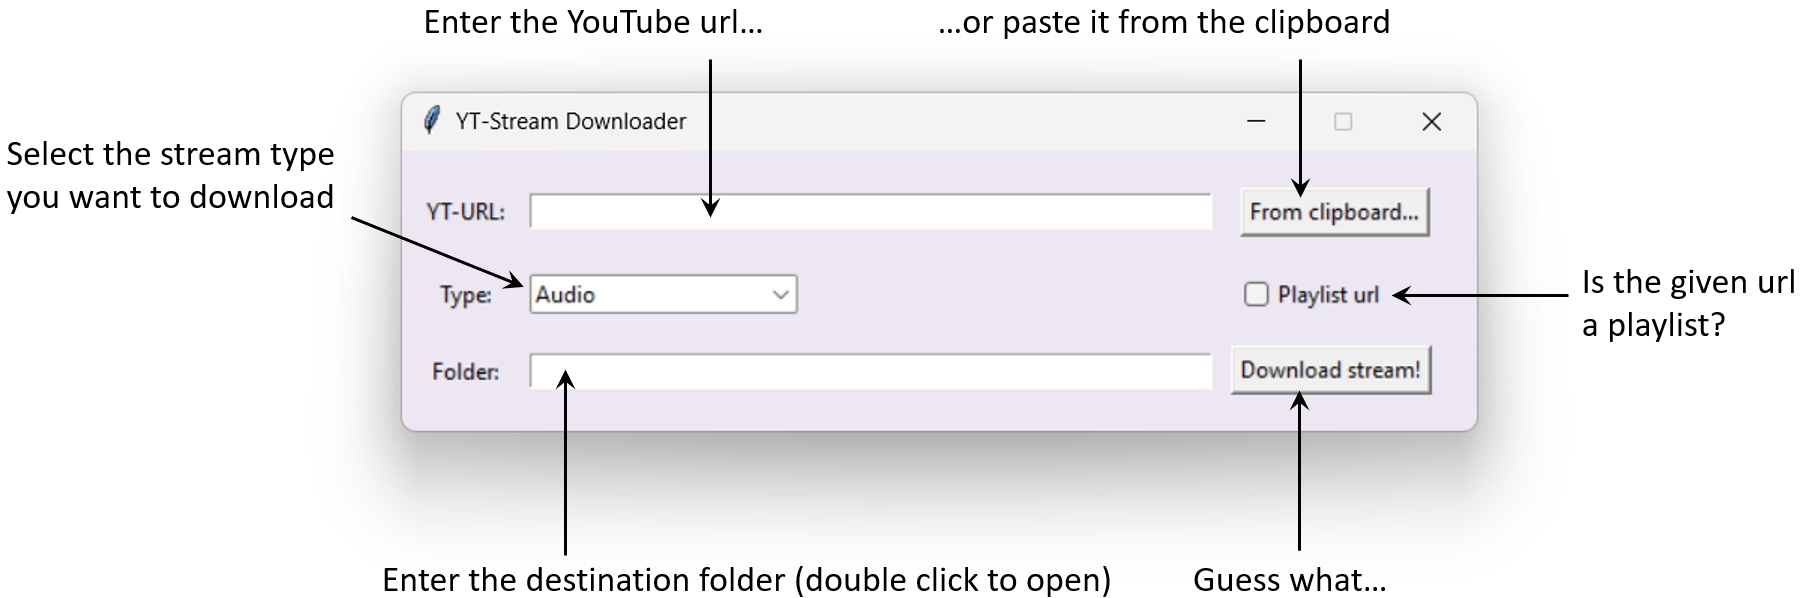
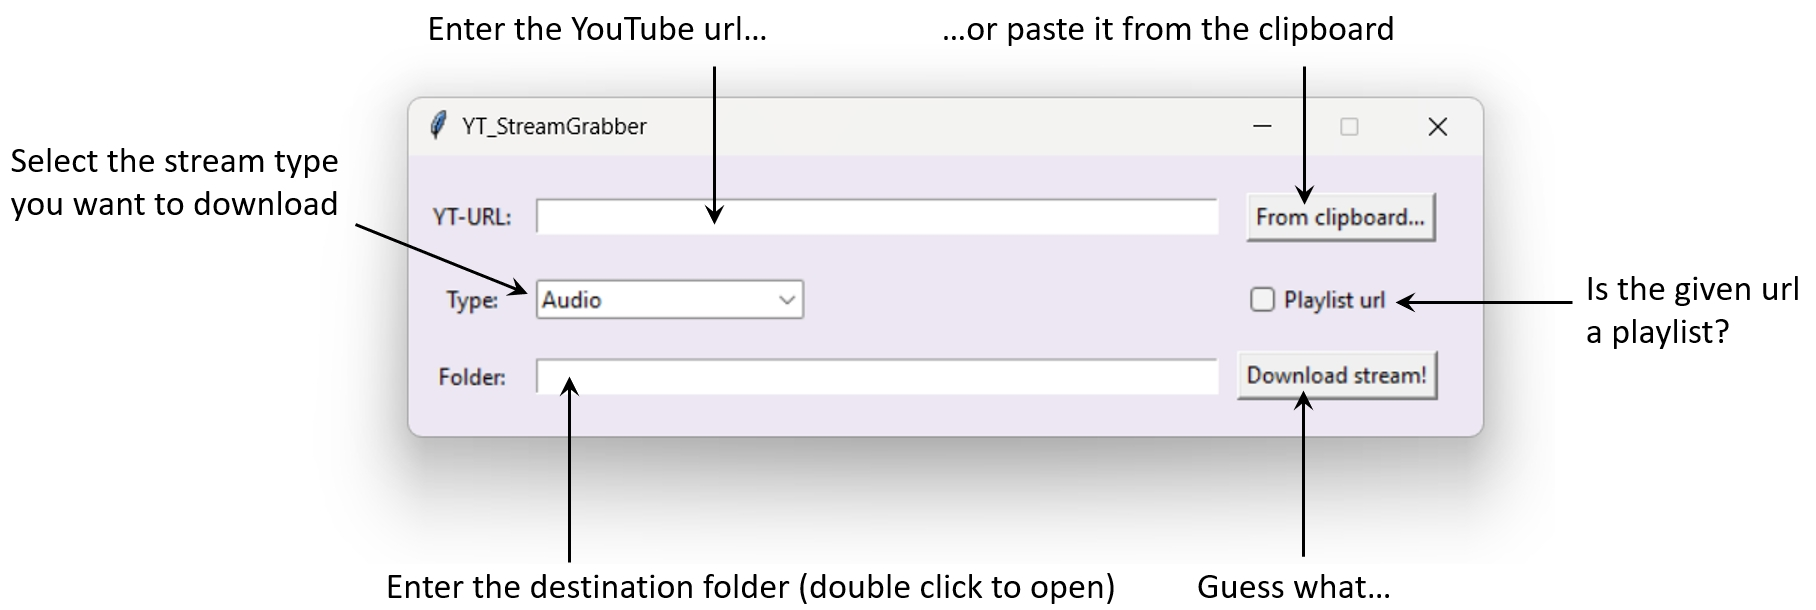
.

diff --git a/yt_streamgrabber_app.py b/yt_streamgrabber_app.py
@@ -79,7 +79,7 @@ class YTMainWindow:
         y = int((screen_height/2) - (window_height/2))
 
         self.window.geometry("{}x{}+{}+{}".format(window_width, window_height, x, y))
-        self.window.title(f"YT-Stream Downloader")
+        self.window.title(f"YT_StreamGrabber")
         self.window['background'] = self.bg_color
         #self.window.wm_attributes('-transparentcolor', window['bg']) <-- sets entire form transparent
         self.window.attributes('-topmost',True)
